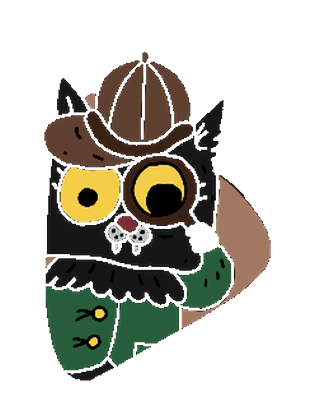
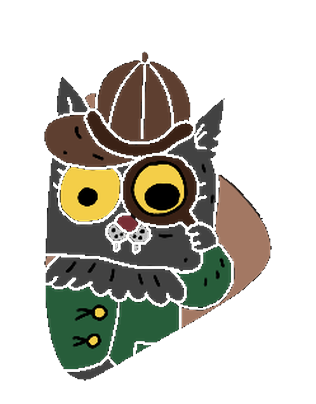
Update Detective Cat cover art.

diff --git a/src/data/games.ts b/src/data/games.ts
@@ -269,8 +269,8 @@ export const GAMES: Game[] = [
   {
     slug: "detective-cat",
     codeName: "DetectiveCat",
-    cover: "/shot-cat.png?v=2",
-    videoPoster: "/shot-cat.png?v=2",
+    cover: "/shot-cat.png?v=3",
+    videoPoster: "/shot-cat.png?v=3",
     accent: "#c9a227",
     status: "in-development",
     platforms: ["steam"],
